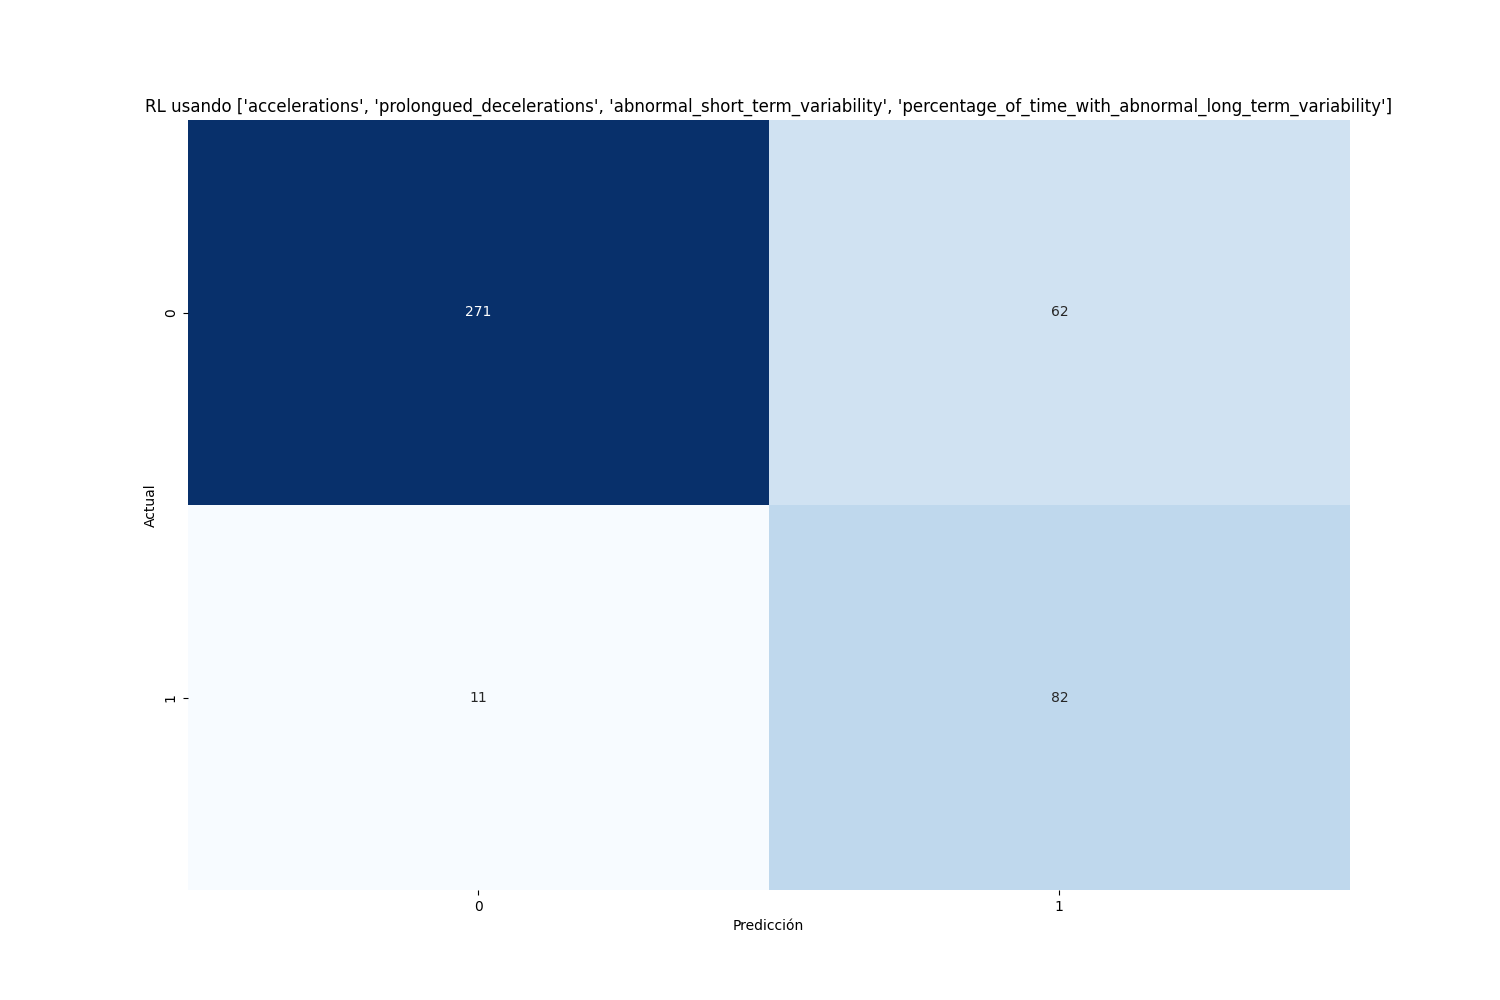
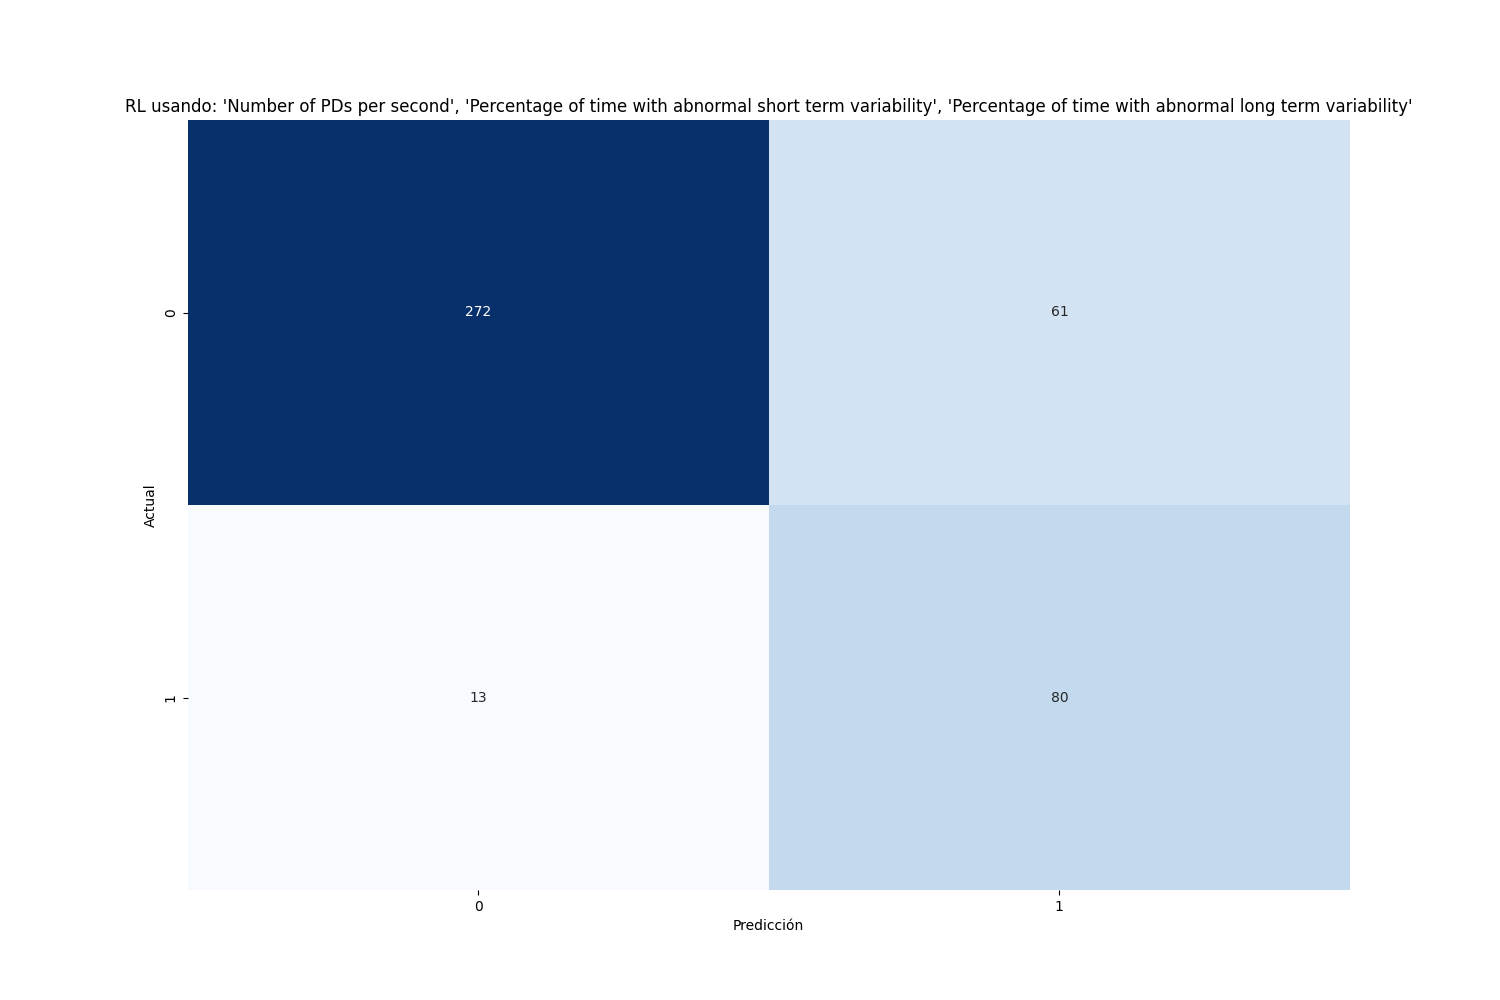
upgraded
README.md, personalización mediante input_data.json y mejoras de formato en la consola.

Changed region(s): [[0.092, 0.093, 0.9507, 0.124]]

diff --git a/main.py b/main.py
@@ -5,6 +5,7 @@ import seaborn as sns
 from sklearn.model_selection import train_test_split
 from sklearn.preprocessing import StandardScaler
 from sklearn.metrics import confusion_matrix
+import json
 
 def get_fetal_dataset(file_path,corr_threshold):
     # Import csv
@@ -21,12 +22,32 @@ def get_fetal_dataset(file_path,corr_threshold):
     # Separar las características (X) de la variable objetivo (y)
     X = data[cols]
     y = data['fetal_health']
-    return data[cols], X, y
 
-def get_distribution_plots(data,cols):
+    # Cargar el archivo JSON y convertirlo en un diccionario
+    with open('/Users/ajelandro/Documents/GitHub/mLconnumpy/data_description.json', 'r') as archivo:
+        data_description = json.load(archivo)
+
+    description_flag = input('View data description? (y/n)      ')
+
+    if description_flag == 'y':
+        for col in cols:
+            print('\033[1m\033[38;5;214m' + col + '\033[0m' + ':', data_description[col])
+        print('------------------------------------------------------------------')
+        print('Proceeding to get distribution plots...')
+    elif description_flag == 'n':
+        print('------------------------------------------------------------------')
+        print('Proceeding to get distribution plots...')
+    else:
+        print('------------------------------------------------------------------')
+        print('No valid answer received. Proceeding to get distribution plots...')
+
+    return data[cols], X, y, data_description
+
+def get_distribution_plots(data,cols,data_description):
     for col in cols:
         plt.figure(figsize=(6, 6))
         sns.histplot(data[col])
+        plt.xlabel(data_description[col])
         plt.savefig('distribution_'+col+'.png')
     print('Generated Distribution plots for:',str(cols))
     print('------------------------------------------------------------------')
@@ -49,7 +70,8 @@ def gradient_descent(X, y, weights, learning_rate, iterations):
         weights -= learning_rate * gradient
     return weights
 
-def train_rl(X, y, learning_rate, iterations):
+def train_rl(X, y, learning_rate, iterations, data_description, sigmoid_input):
+    print('Training LR...')
     y = (y == 1).astype(int)
 
     # Normalizar las características
@@ -66,9 +88,9 @@ def train_rl(X, y, learning_rate, iterations):
     weights = gradient_descent(X_train, y_train, weights, learning_rate, iterations)
 
     # Predicción y evaluación en el conjunto de prueba
-    y_pred = sigmoid(np.dot(X_test, weights)) >= 0.5
+    y_pred = sigmoid(np.dot(X_test, weights)) >= sigmoid_input
     accuracy = np.mean(y_pred == y_test)
-    print('Training complete!')
+    print('\033[1m\033[32mTraining complete!\033[0m')
     print('------------------------------------------------------------------')
 
     print('Accuracy:', accuracy)
@@ -81,7 +103,11 @@ def train_rl(X, y, learning_rate, iterations):
     plt.figure(figsize=(15, 10))
     sns.heatmap(cm, annot=True, fmt='d', cmap='Blues', cbar=False)
 
-    plt.title('RL usando ' + str(list(X.columns)))
+    used_cols = []
+    for col in list(X.columns):
+        used_cols.append(data_description[col])
+
+    plt.title('RL usando: ' + str(used_cols).replace('[','').replace(']',''))
     plt.ylabel('Actual')
     plt.xlabel('Predicción')
     plt.savefig('confusion_matrix_' + 'learning_rate=' + str(learning_rate) + '_iterations=' + str(iterations) + '.png')
@@ -89,31 +115,38 @@ def train_rl(X, y, learning_rate, iterations):
     return y_test, y_pred, accuracy, weights, scaler
 
 def predict(X, weights, scaler):
-    print('Predict...')
+    print('Please enter data for model to predict:')
 
     new_data_values = []
     for col in list(X.columns):
-        instance = input(col+': ')
+        instance = input('      '+'\033[1m\033[38;5;214m' + col + '\033[0m'+': ')
         new_data_values.append(float(instance))  # Asegúrate de que sean valores numéricos
 
     new_data = pd.DataFrame([new_data_values], columns=list(X.columns))
 
     # Normalizar las características del nuevo conjunto de datos utilizando el scaler ajustado
     new_data_scaled = scaler.transform(new_data)
-
     # Realizar la predicción
     new_prediction = sigmoid(np.dot(new_data_scaled, weights)) >= 0.5
+    print('------------------------------------------------------------------')
+
     if new_prediction[0] == False:
-        print("Predicción: El feto es sano.")
+        print("\033[1mPrediction\033[0m: Fetal health is normal.")
+        print('------------------------------------------------------------------')
     else:
-        print("Predicción: La salud del feto puede estar en riesgo por lo que se recomienda estudio.") 
+        print("\033[1mPrediction\033[0m: Suspect fetal health detected. Further study is highly recommended.")
+        print('------------------------------------------------------------------')
 
 def main():
     file_path = "/Users/ajelandro/Documents/GitHub/mLconnumpy/fetal_health.csv"
-    data, X, y = get_fetal_dataset(file_path, 0.3)
-    get_distribution_plots(data, list(X.columns))
-    print('About to train RL...')
-    y_test, y_pred, accuracy, weights, scaler = train_rl(X, y, 0.01, 10000)
+    input_data_path = "/Users/ajelandro/Documents/GitHub/mLconnumpy/input_data.json"
+    with open(input_data_path, 'r') as archivo:
+        input_data = json.load(archivo)
+
+    print(input_data)
+    data, X, y, data_description = get_fetal_dataset(file_path, input_data["correlation"])
+    get_distribution_plots(data, list(X.columns), data_description)
+    y_test, y_pred, accuracy, weights, scaler = train_rl(X, y, input_data["learning_rate"], input_data["iterations"], data_description, input_data['sigmoid'])
     predict(X, weights, scaler)
 
 if __name__ == '__main__':

diff --git a/README.md b/README.md
@@ -1,0 +1,80 @@
+# Fetal Health Classification
+
+Este proyecto es un sistema de clasificación para la salud fetal utilizando un modelo de regresión logística. El código procesa un conjunto de datos, entrena un modelo de regresión logística y predice la salud fetal con base en nuevos datos de entrada.
+
+## Requisitos
+
+Antes de ejecutar el código, asegúrate de tener instaladas las siguientes librerías de Python:
+
+- `numpy`
+- `pandas`
+- `matplotlib`
+- `seaborn`
+- `scikit-learn`
+
+Puedes instalar estas dependencias usando pip:
+
+```bash
+pip install numpy pandas matplotlib seaborn scikit-learn
+```
+
+## Archivos necesarios
+
+El proyecto requiere los siguientes archivos:
+
+- `fetal_health.csv`: Un archivo CSV que contiene los datos del conjunto de características y la columna objetivo fetal_health.
+
+- `data_description.json`: Un archivo JSON que contiene descripciones de cada una de las características del conjunto de datos.
+
+Asegúrate de que estos archivos estén en las rutas especificadas o modifica las rutas en el código.
+
+## Uso
+
+### 1. Obtener y preparar el dataset
+La función `get_fetal_dataset(file_path, corr_threshold)` realiza las siguientes operaciones:
+
+- Carga los datos desde el archivo CSV.
+
+- Calcula la correlación de las características con la columna objetivo fetal_health y selecciona las características con una correlación superior al umbral (corr_threshold).
+
+- Convierte la columna objetivo fetal_health a una variable binaria (1 para sospechoso, 0 para normal).
+
+- Retorna las características seleccionadas, los datos, y las descripciones de las columnas.
+
+### 2. Generar gráficos de distribución
+La función `get_distribution_plots(data, cols, data_description)` genera y guarda gráficos de distribución para las columnas seleccionadas.
+
+### 3. Entrenamiento del modelo
+La función `train_rl(X, y, learning_rate, iterations, data_description)`:
+
+- Entrena un modelo de regresión logística utilizando descenso de gradiente.
+
+- Divide los datos en conjuntos de entrenamiento y prueba.
+
+- Normaliza las características.
+
+- Genera y guarda una matriz de confusión.
+
+- Imprime la precisión del modelo en el conjunto de prueba.
+
+### 4. Realizar predicciones
+La función `predict(X, weights, scaler)` permite al usuario ingresar nuevos datos y predecir la salud fetal utilizando el modelo entrenado.
+
+### 5. Ejecución del programa
+El script principal se encuentra en la función main(). Para ejecutar todo el proceso, simplemente corre el archivo en el directorio correcto:
+
+```bash
+python main.py
+```
+
+## Personalización
+Puedes ajustar el umbral de correlación, la posición del sigmoide, la tasa de aprendizaje `(learning_rate)`, y el número de iteraciones `(iterations)` según tus necesidades en el archivo `PROJECT_PATH/input_data.json`.
+
+## Salida
+- Gráficos de distribución: Guardados como archivos PNG con el nombre `distribution_<column_name>.png`.
+
+- Matriz de confusión: Guardada como `confusion_matrix_learning_rate=<learning_rate>_iterations=<iterations>.png`.
+
+- Precisión del modelo: Impresa en la consola.
+
+- Predicción de la salud fetal: Impresa en la consola tras la entrada de nuevos datos.
